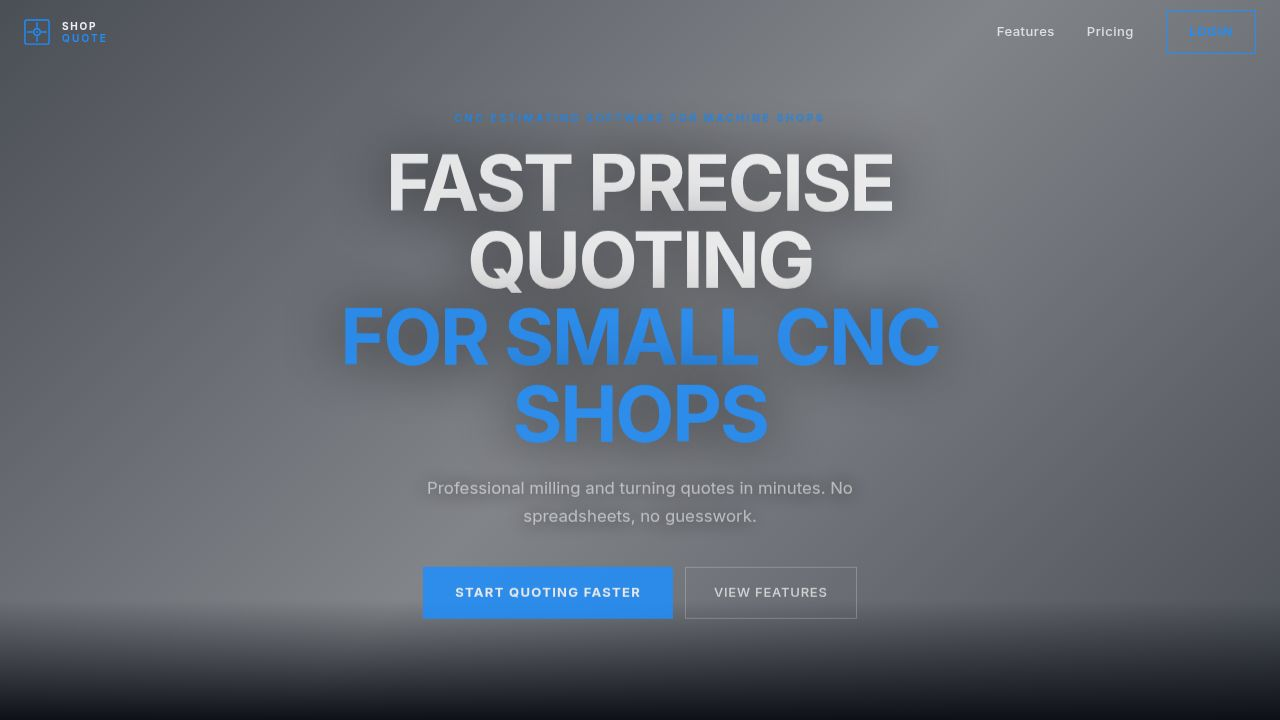
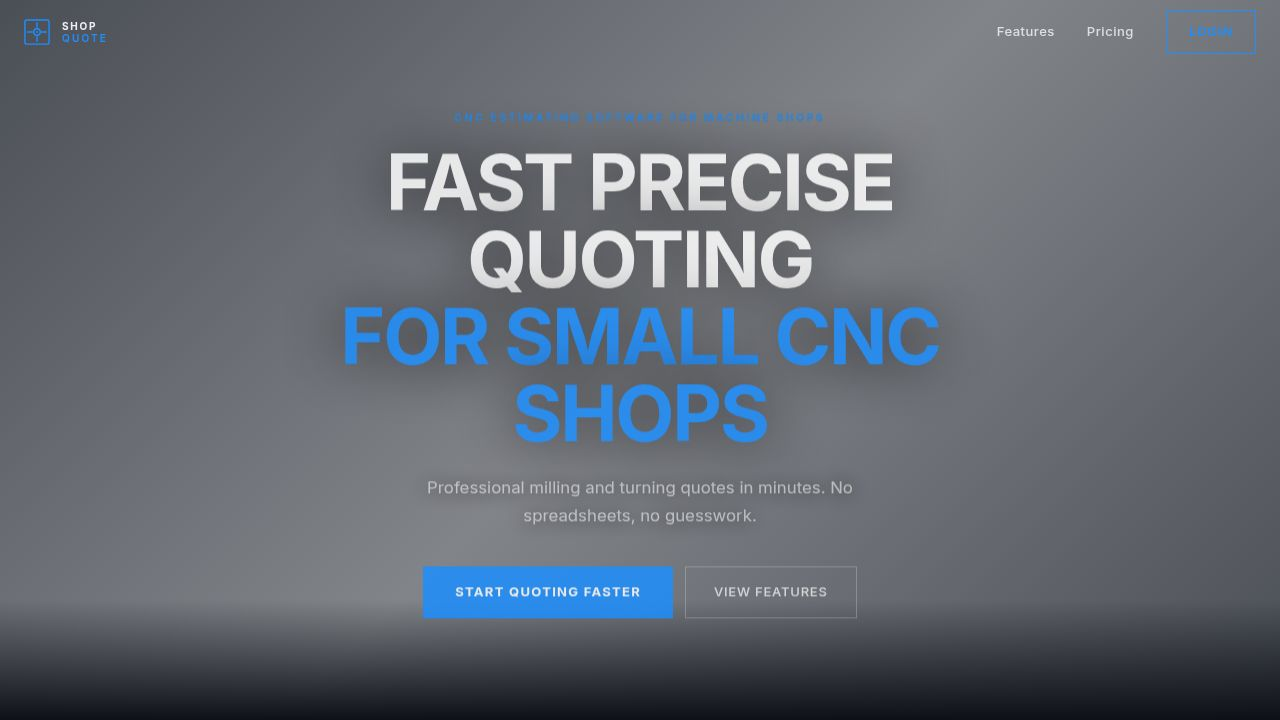
Task: Show overdue follow-ups and upcoming chase dates on the dashboard
Added a "Follow-up Chase List" section to the Workshop Dashboard that surfaces
Sent quotes with follow-up dates due today, overdue, or within 7 days.

Changes:
- lib/api-spec/openapi.yaml: Added GET /quotes/follow-ups endpoint and
  FollowUpQuote schema (id, quoteNumber, customerName, followUpDate, urgency enum)
- artifacts/api-server/src/routes/quotes.ts: Added /quotes/follow-ups route handler
  that queries Sent quotes with followUpDate set, joins customers for names,
  filters to those due within 7 days (or overdue), and classifies each as
  "overdue", "due_today", or "due_soon". Inserted before /quotes/:id routes
  to avoid path conflict.
- Ran codegen (pnpm --filter @user/api-spec run codegen) to regenerate
  useListFollowUps hook and FollowUpQuote TypeScript types.
- artifacts/shop-quote/src/pages/dashboard.tsx:
  - Added useListFollowUps hook call
  - Added UrgencyBadge component (red for overdue with days count, amber for
    due today, blue for due soon with formatted date)
  - Added Follow-up Chase List panel between KPI strip and main grid —
    amber-tinted card with Bell icon, quote number, customer name, urgency badge,
    and chevron link to quote detail. Panel is conditionally rendered and hidden
    when there are no actionable follow-ups.

No DB schema changes required — followUpDate already exists on quotesTable.
Typecheck passes cleanly.

Replit-Task-Id: 1e2302a1-b758-4a2e-b046-1f52196fdc30

Changed region(s): [[0.5, 0.3056, 0.5312, 0.3361], [0.4688, 0.7944, 0.5, 0.825]]

diff --git a/artifacts/shop-quote/src/pages/dashboard.tsx b/artifacts/shop-quote/src/pages/dashboard.tsx
@@ -1,10 +1,11 @@
 import {
   useGetDashboardStats,
   useListQuotes,
+  useListFollowUps,
 } from "@workspace/api-client-react";
 import { Skeleton } from "@/components/ui/skeleton";
 import { Link } from "wouter";
-import { format } from "date-fns";
+import { format, differenceInCalendarDays } from "date-fns";
 import {
   FileText,
   Plus,
@@ -17,6 +18,7 @@ import {
   BarChart3,
   ChevronRight,
   Zap,
+  Bell,
 } from "lucide-react";
 
 function KpiCard({
@@ -109,6 +111,7 @@ function StatusChip({ status }: { status: string }) {
 export function DashboardPage() {
   const { data: stats, isLoading: statsLoading } = useGetDashboardStats();
   const { data: allQuotes, isLoading: quotesLoading } = useListQuotes();
+  const { data: followUps = [] } = useListFollowUps();
 
   const recentQuotes = (allQuotes ?? []).slice(0, 8);
 
@@ -263,6 +266,94 @@ export function DashboardPage() {
           sub={stats.avgTurnaroundDaysLastMonth != null ? `Last month: ${stats.avgTurnaroundDaysLastMonth.toFixed(1)}d` : "RFQ received → quote sent"}
         />
       </div>
+
+      {/* Follow-up action list */}
+      {followUps.length > 0 && (
+        <div
+          className="rounded border overflow-hidden"
+          style={{
+            background: "hsl(38 92% 50% / 0.04)",
+            borderColor: "hsl(38 92% 50% / 0.4)",
+            boxShadow: "0 0 0 1px hsl(38 92% 50% / 0.1)",
+          }}
+        >
+          <div
+            className="flex items-center justify-between px-4 py-3"
+            style={{ borderBottom: "1px solid hsl(38 92% 50% / 0.2)" }}
+          >
+            <div className="flex items-center gap-2">
+              <Bell
+                className="w-4 h-4"
+                style={{ color: "hsl(38 92% 42%)" }}
+              />
+              <span
+                className="text-sm font-semibold tracking-wide uppercase"
+                style={{ letterSpacing: "0.06em", color: "hsl(38 92% 42%)" }}
+              >
+                Follow-up Chase List
+              </span>
+              <span
+                className="text-xs font-bold px-1.5 py-0.5 rounded-full"
+                style={{
+                  background: "hsl(38 92% 50% / 0.15)",
+                  color: "hsl(38 92% 38%)",
+                }}
+              >
+                {followUps.length}
+              </span>
+            </div>
+            <Link href="/quotes?status=Sent">
+              <span
+                className="text-xs font-medium flex items-center gap-1 hover:underline"
+                style={{ color: "hsl(38 92% 42%)" }}
+              >
+                View all sent <ChevronRight className="w-3 h-3" />
+              </span>
+            </Link>
+          </div>
+
+          {/* Mobile stacked */}
+          <div className="md:hidden divide-y" style={{ borderColor: "hsl(38 92% 50% / 0.15)" }}>
+            {followUps.map((q) => (
+              <Link key={q.id} href={`/quotes/${q.id}`}>
+                <div className="px-4 py-3 flex items-center justify-between gap-3 hover:bg-amber-50/60 transition-colors cursor-pointer">
+                  <div className="min-w-0">
+                    <div className="flex items-center gap-2 flex-wrap">
+                      <span className="font-mono text-sm font-bold">{q.quoteNumber}</span>
+                      <UrgencyBadge urgency={q.urgency} followUpDate={q.followUpDate} />
+                    </div>
+                    <div className="text-sm font-medium mt-0.5 truncate">{q.customerName}</div>
+                  </div>
+                  <ChevronRight className="w-4 h-4 shrink-0 opacity-30" />
+                </div>
+              </Link>
+            ))}
+          </div>
+
+          {/* Desktop row layout */}
+          <div className="hidden md:block divide-y" style={{ borderColor: "hsl(38 92% 50% / 0.15)" }}>
+            {followUps.map((q) => (
+              <Link key={q.id} href={`/quotes/${q.id}`}>
+                <div className="flex items-center gap-4 px-5 py-3 hover:bg-amber-50/60 transition-colors cursor-pointer group">
+                  <div className="w-[110px] shrink-0">
+                    <div className="font-mono text-sm font-semibold">{q.quoteNumber}</div>
+                  </div>
+                  <div className="flex-1 min-w-0">
+                    <div className="font-medium text-sm truncate">{q.customerName}</div>
+                  </div>
+                  <div className="shrink-0">
+                    <UrgencyBadge urgency={q.urgency} followUpDate={q.followUpDate} />
+                  </div>
+                  <ChevronRight
+                    className="w-4 h-4 shrink-0 opacity-0 group-hover:opacity-100 transition-opacity"
+                    style={{ color: "hsl(38 92% 42%)" }}
+                  />
+                </div>
+              </Link>
+            ))}
+          </div>
+        </div>
+      )}
 
       {/* Main area */}
       <div className="grid grid-cols-1 lg:grid-cols-3 gap-5">
@@ -553,6 +644,42 @@ function QuickAction({
         {label}
       </button>
     </Link>
+  );
+}
+
+function UrgencyBadge({
+  urgency,
+  followUpDate,
+}: {
+  urgency: string;
+  followUpDate: string;
+}) {
+  const todayDate = new Date();
+  todayDate.setHours(0, 0, 0, 0);
+  const daysAgo = differenceInCalendarDays(todayDate, new Date(followUpDate + "T00:00:00"));
+
+  if (urgency === "overdue") {
+    return (
+      <span className="inline-flex items-center gap-1 px-2 py-0.5 rounded-full text-xs font-semibold bg-red-50 text-red-600">
+        <span className="w-1.5 h-1.5 rounded-full bg-red-400" />
+        {daysAgo === 1 ? "1 day overdue" : `${daysAgo} days overdue`} &middot;{" "}
+        {format(new Date(followUpDate + "T00:00:00"), "dd MMM")}
+      </span>
+    );
+  }
+  if (urgency === "due_today") {
+    return (
+      <span className="inline-flex items-center gap-1 px-2 py-0.5 rounded-full text-xs font-semibold bg-amber-50 text-amber-700">
+        <span className="w-1.5 h-1.5 rounded-full bg-amber-400" />
+        Due today
+      </span>
+    );
+  }
+  return (
+    <span className="inline-flex items-center gap-1 px-2 py-0.5 rounded-full text-xs font-semibold bg-blue-50 text-blue-600">
+      <span className="w-1.5 h-1.5 rounded-full bg-blue-400" />
+      Due {format(new Date(followUpDate + "T00:00:00"), "EEE dd MMM")}
+    </span>
   );
 }
 

diff --git a/artifacts/api-server/src/routes/quotes.ts b/artifacts/api-server/src/routes/quotes.ts
@@ -275,6 +275,50 @@ async function insertLineItems(
   }
 }
 
+router.get("/quotes/follow-ups", async (req, res): Promise<void> => {
+  const today = new Date().toISOString().split("T")[0];
+  const weekOut = new Date(Date.now() + 7 * 24 * 60 * 60 * 1000)
+    .toISOString()
+    .split("T")[0];
+
+  const quotes = await db
+    .select({
+      id: quotesTable.id,
+      quoteNumber: quotesTable.quoteNumber,
+      status: quotesTable.status,
+      followUpDate: quotesTable.followUpDate,
+      customerName: customersTable.companyName,
+    })
+    .from(quotesTable)
+    .leftJoin(customersTable, eq(quotesTable.customerId, customersTable.id))
+    .orderBy(quotesTable.followUpDate);
+
+  const result = quotes
+    .filter(
+      (q) =>
+        q.status === "Sent" &&
+        q.followUpDate !== null &&
+        q.followUpDate <= weekOut,
+    )
+    .map((q) => {
+      const date = q.followUpDate!;
+      let urgency: "overdue" | "due_today" | "due_soon";
+      if (date < today) urgency = "overdue";
+      else if (date === today) urgency = "due_today";
+      else urgency = "due_soon";
+
+      return {
+        id: q.id,
+        quoteNumber: q.quoteNumber,
+        customerName: q.customerName ?? "Unknown",
+        followUpDate: date,
+        urgency,
+      };
+    });
+
+  res.json(result);
+});
+
 router.get("/quotes", async (req, res): Promise<void> => {
   const quotes = await db
     .select({